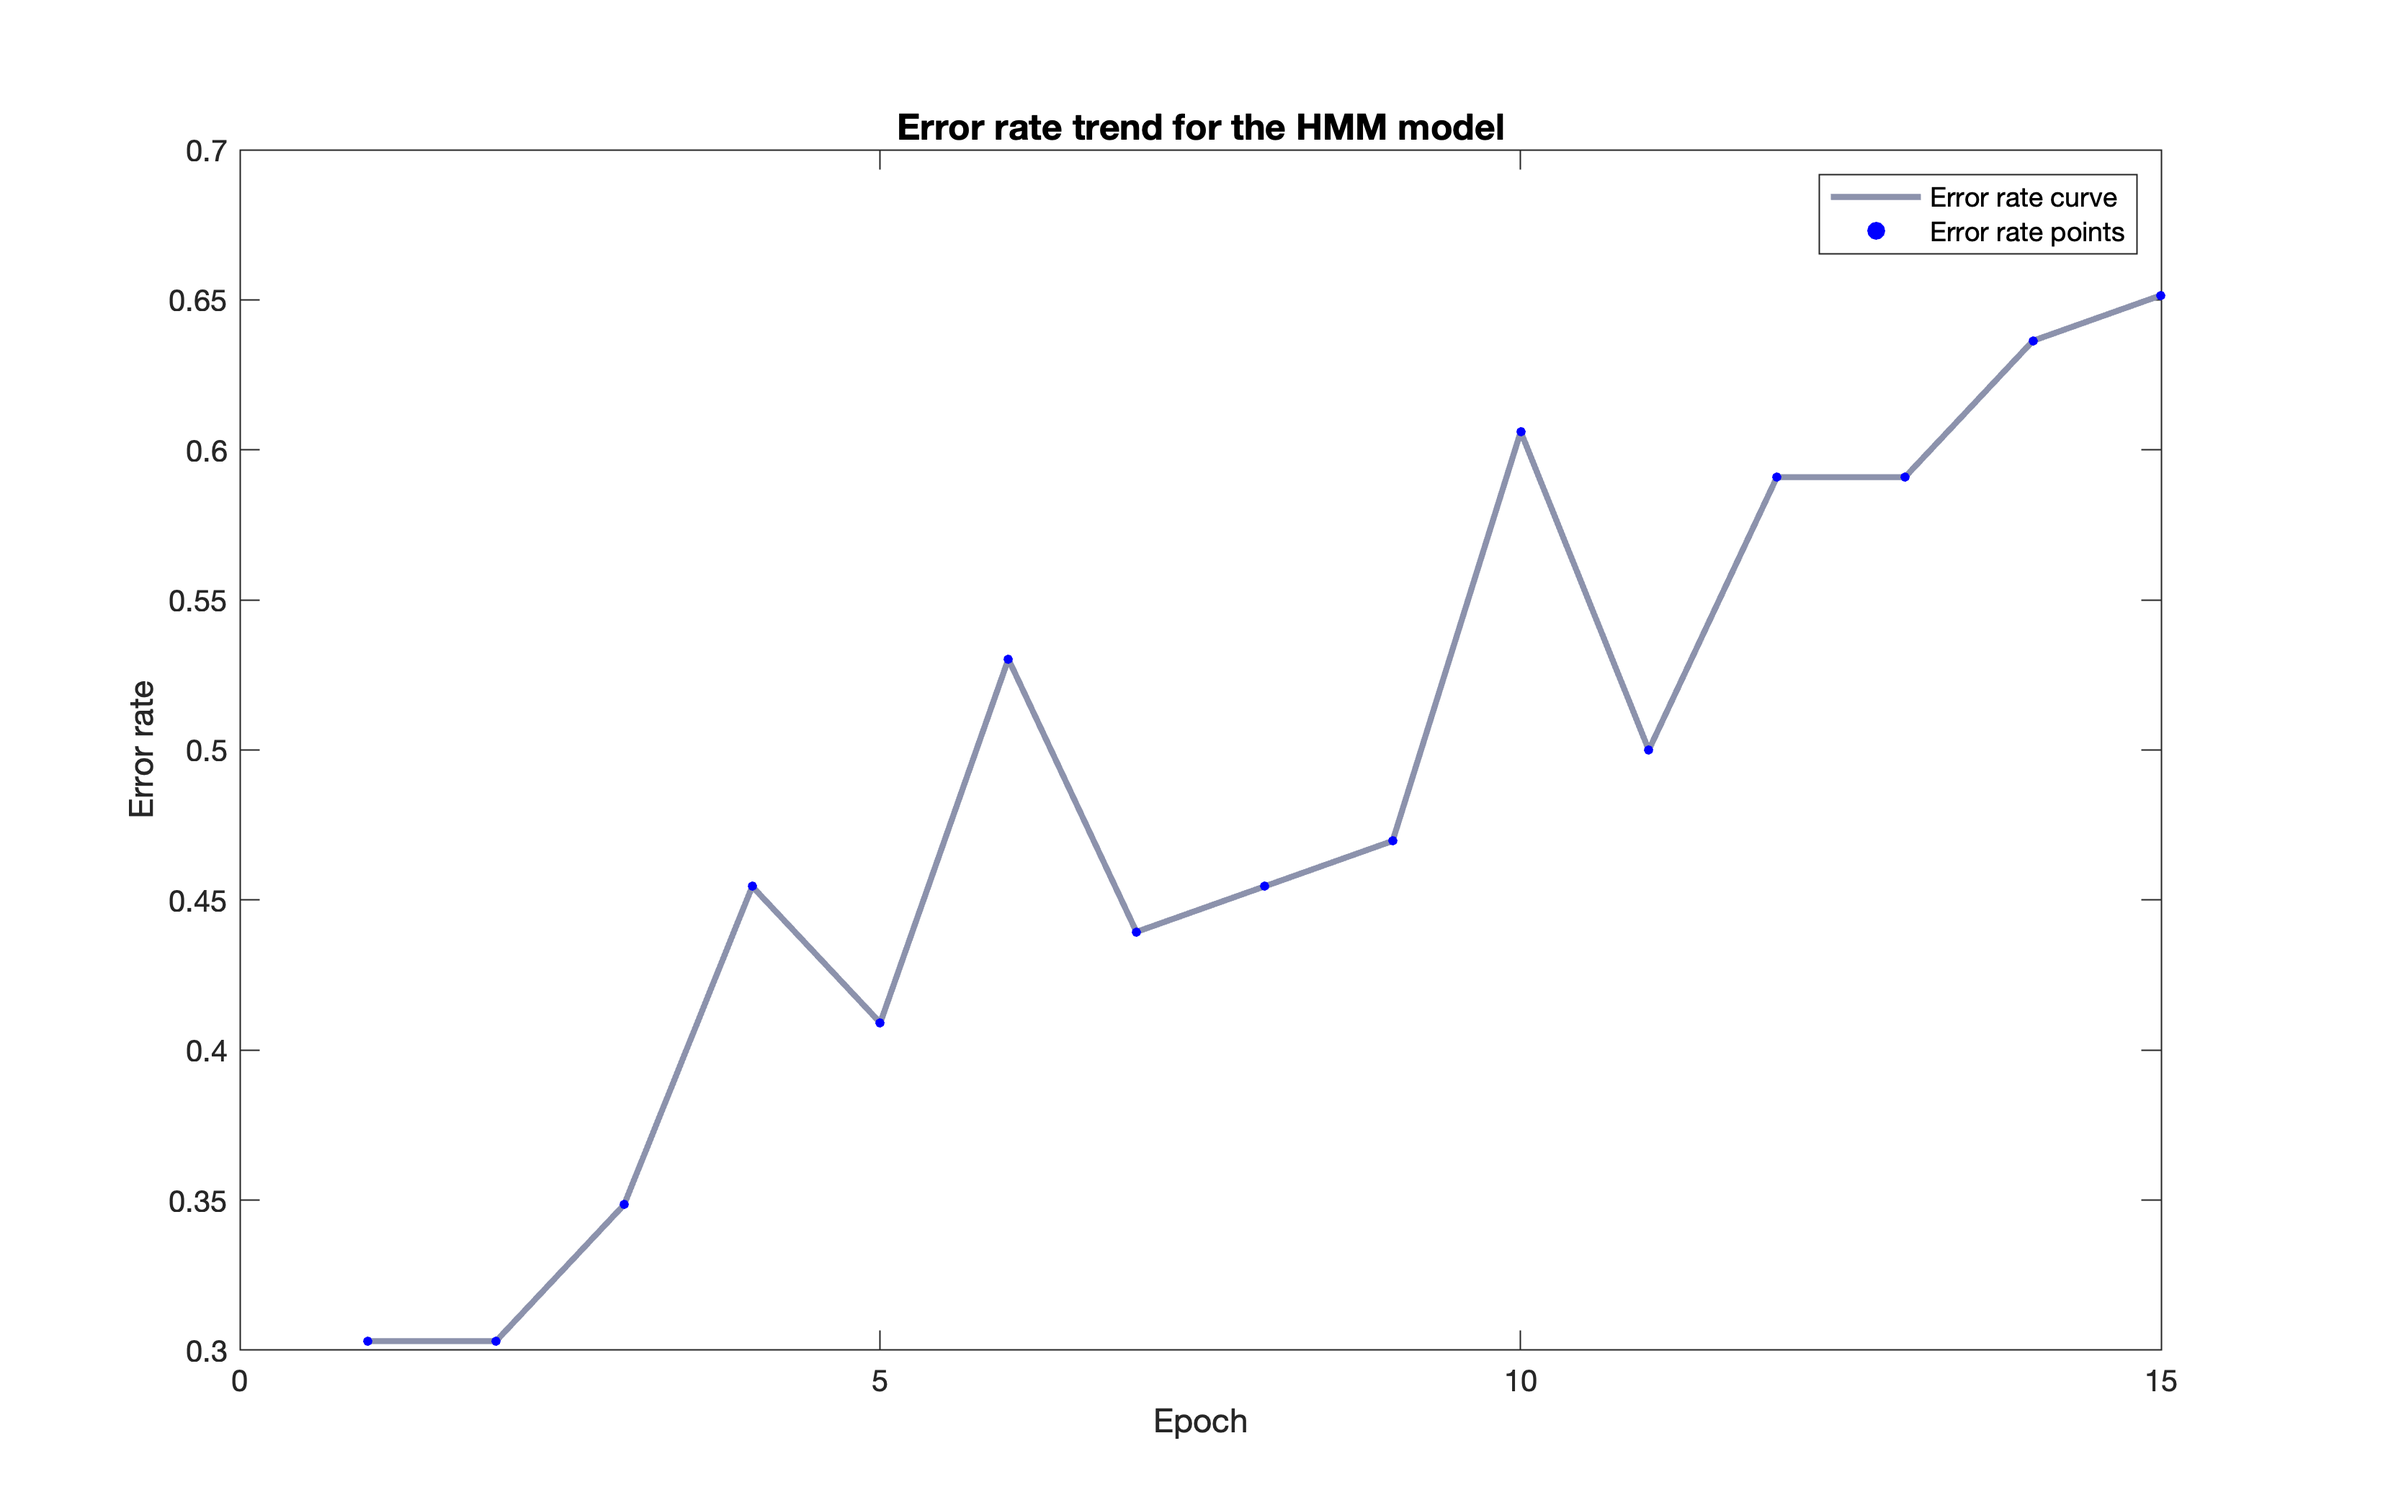
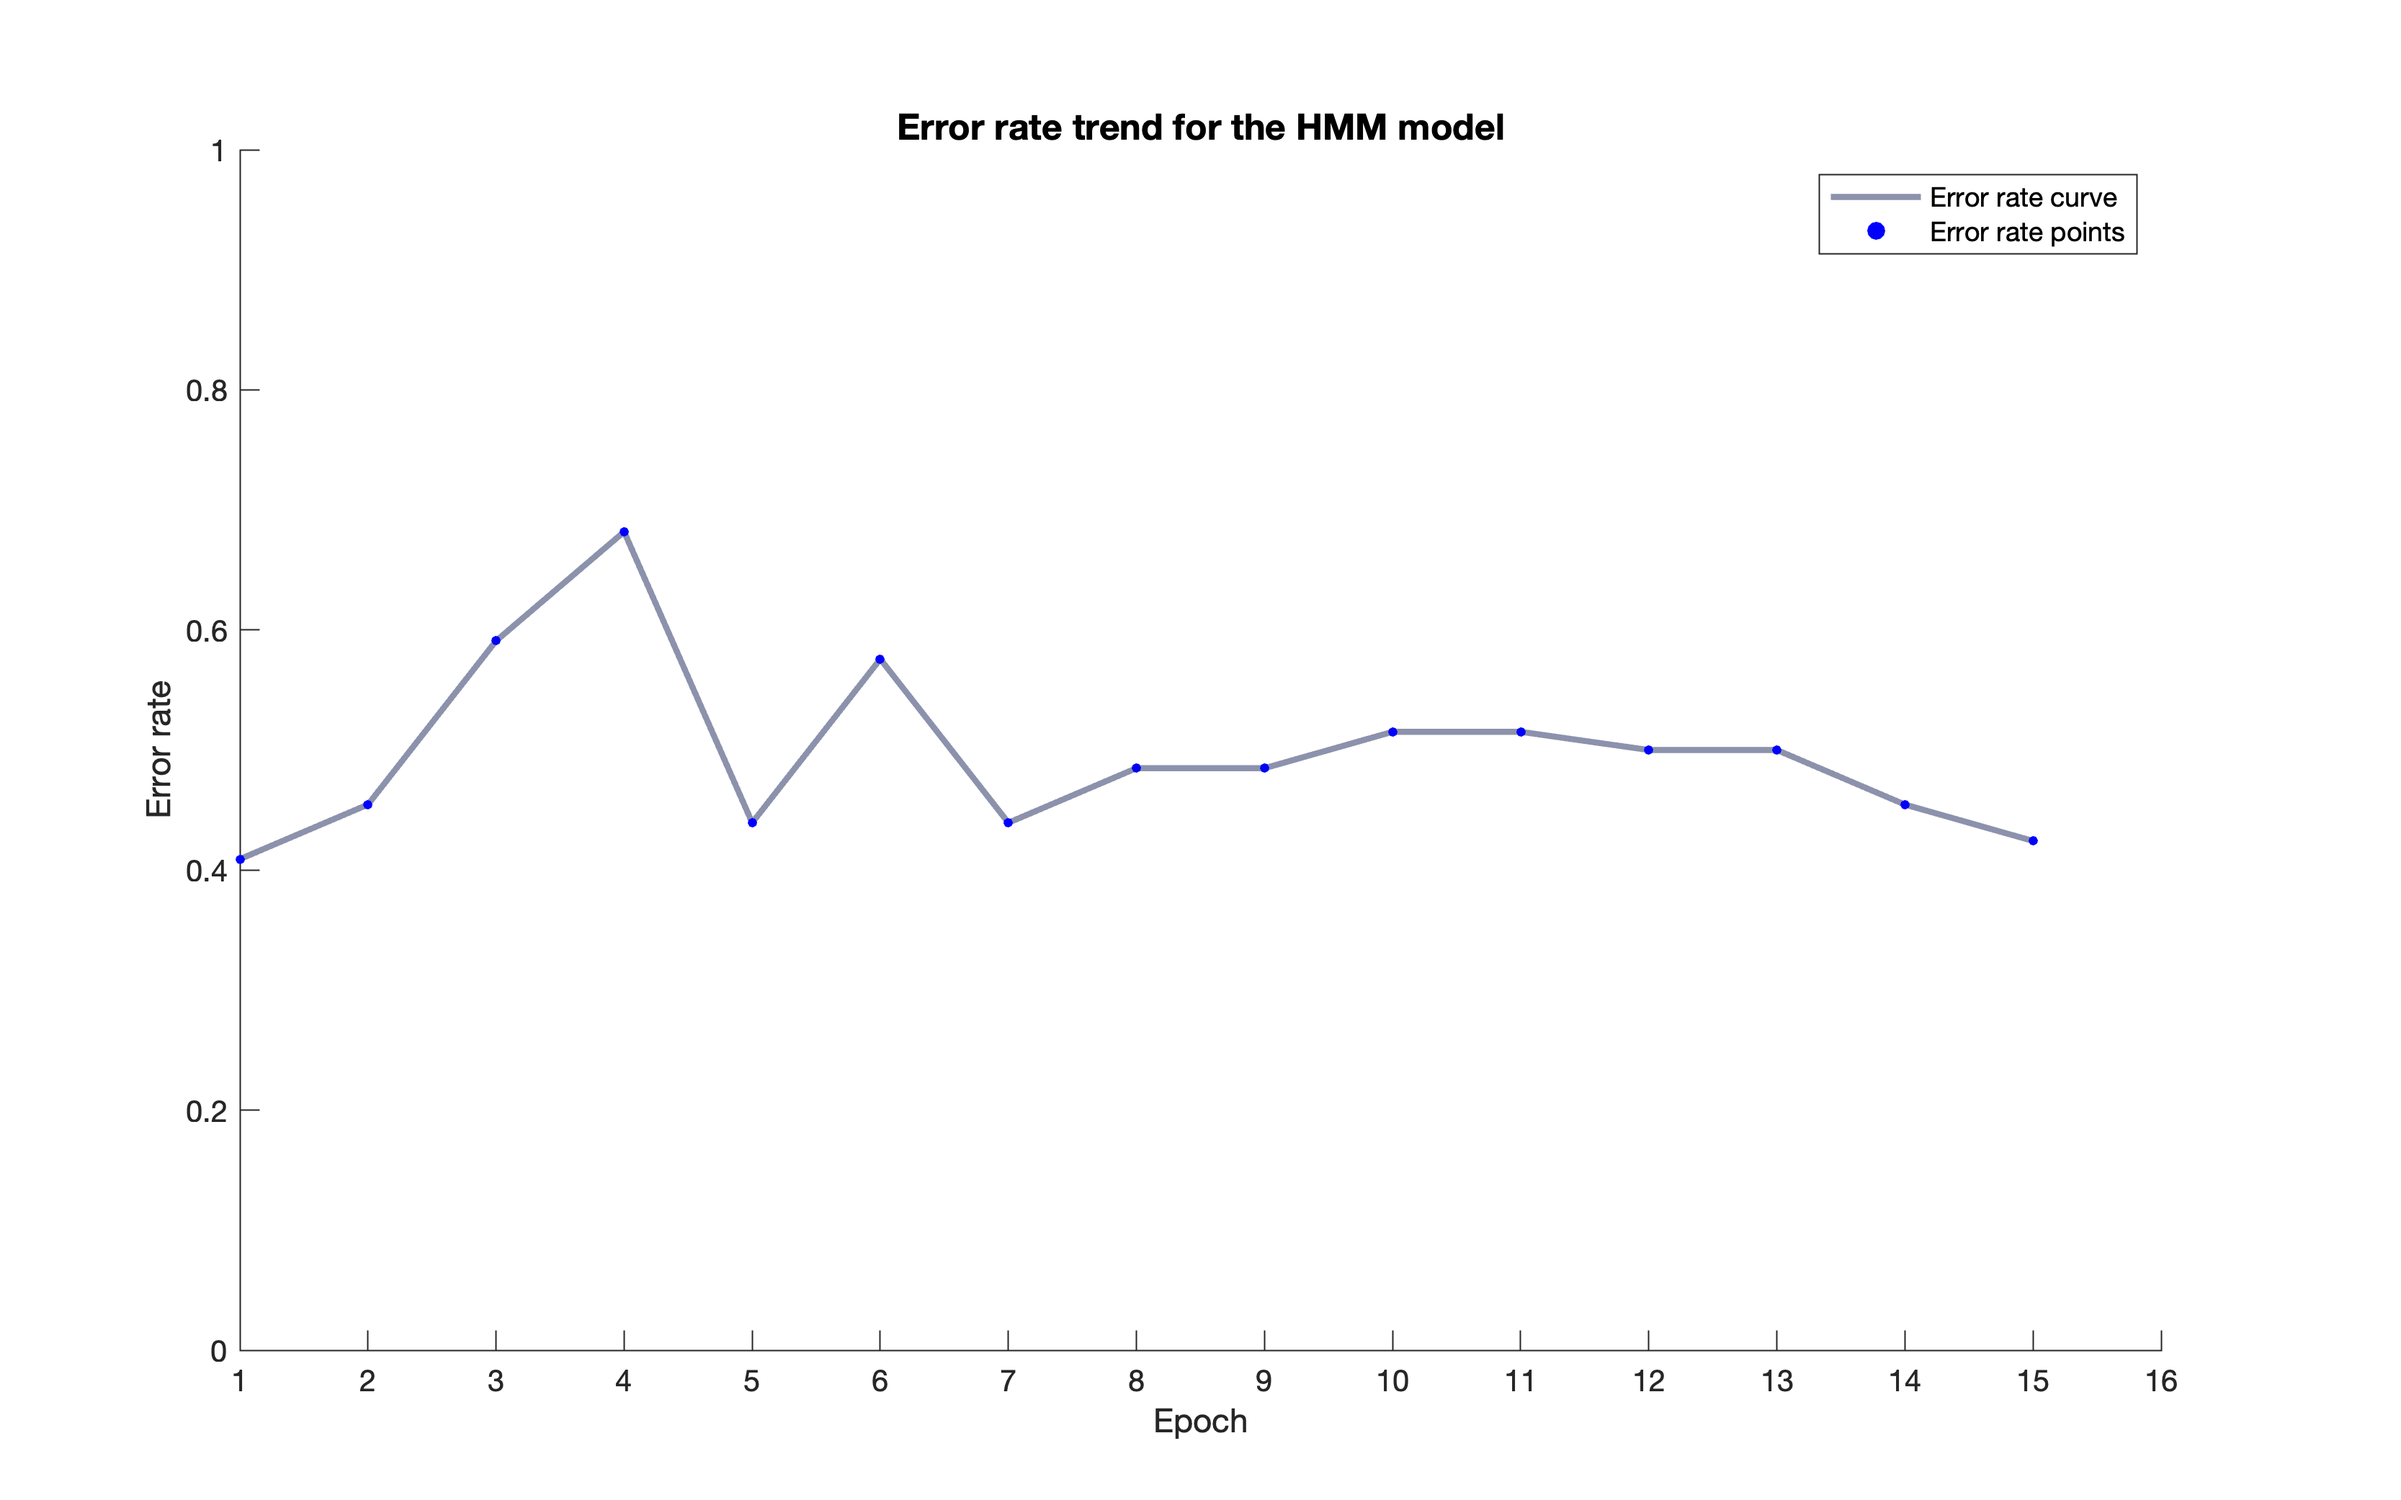
add the function for normalization

diff --git a/document/Report for Speech Recognition.tex b/document/Report for Speech Recognition.tex
@@ -83,18 +83,71 @@ This report is structured as follows: \textit{Section 2} analyses the kinematics
 \section{MFCC acoustic features}
 
 
-\subsection{Model initialization}
+\section{Model initialization}
 
 
+\subsection{Paremeters of HMM initialization}
+Model initialization is a foundational step in training Hidden Markov Models (HMMs). The success of training algorithms like the Baum-Welch algorithm relies heavily on well-initialized model parameters. These parameters include the initial state probabilities $\pi$, the state transition probabilities $A$, and the observation probabilities $B$. Proper initialization provides a good starting point for optimization and helps avoid convergence to suboptimal solutions. 
 
-\subsection{Model initialization}
-Model initialization is a foundational step in training Hidden Markov Models (HMMs). The success of training algorithms like the Baum-Welch algorithm relies heavily on well-initialized model parameters. These parameters include the initial state probabilities $Pi$, the state transition probabilities $A$, and the observation probabilities $B$. Proper initialization provides a good starting point for optimization and helps avoid convergence to suboptimal solutions. 
+
+\paragraph{Initial State Probabilities $\Pi$:}
+	 $\Pi = [\pi_1, \pi_2, \dots, \pi_N]$ represents the probability of starting in each state  i , where  N  is the number of states.
+Here, initial $\Pi$ is provided in the assigment document:
+\begin{equation}
+\label{eqn:pi}
+\pi_i = \begin{bmatrix}
+ 	1 & 0 & 0 & 0 & 0 & 0 & 0 & 0
+ \end{bmatrix}
+\end{equation}
+
+\paragraph{State Transition Probabilities $A$:}
+ $A = [a_{ij}]$  represents the probability of transitioning from state $i$ to state $j$, satisfying $\sum_{j=1}^N a_{ij} = 1$  for all $i$.
+Here, initial $A$ is provided in the assigment document:
+\begin{equation}
+\label{eqn:A}
+a_{ij} = \begin{bmatrix}
+ 	0.8 & 0.2 & 0 & 0 & 0 & 0 & 0 & 0 \\
+ 	0 & 0.8 & 0.2 & 0 & 0 & 0 & 0 & 0 \\
+ 	0 & 0 & 0.8 & 0.2 & 0 & 0 & 0 & 0 \\
+ 	0 & 0 & 0 & 0.8 & 0.2 & 0 & 0 & 0 \\
+ 	0 & 0 & 0 & 0 & 0.8 & 0.2 & 0 & 0 \\
+ 	0 & 0 & 0 & 0 & 0 & 0.8 & 0.2 & 0 \\
+ 	0 & 0 & 0 & 0 & 0 & 0 & 0.8 & 0.2 \\
+ 	0 & 0 & 0 & 0 & 0 & 0 & 0 & 0.8
+ \end{bmatrix}
+\end{equation}
+
+\paragraph{Observation Probabilities $B$:}
+ $B$ represents the probability of observing data given a state. For continuous observations, this is computed using a multivariate Gaussian probability density function $PDF$.
+ 
+ The observation probability for a given state $i$ and observation $x$ is defined as:
+\begin{equation}
+B_i(x) = \frac{1}{(2\pi)^{d/2} |\Sigma_i|^{1/2}} e^{-\frac{1}{2}(x - \mu_i)^T \Sigma_i^{-1} (x - \mu_i)}
+\end{equation}
+
+where:
+\begin{itemize}
+\item $\mu_i$ is the mean vector for state  i ,
+\item $\Sigma_i$ is the covariance matrix for state  i ,
+\item $d$ is the dimensionality of the observation vector.
+\end{itemize}
+
+In practice:
+\begin{itemize}
+\item $\mu_i$ can be initialized as the global mean of the observations.
+\item $\Sigma_i$ can be initialized as a diagonal matrix where diagonal entries are the variances of the clustered observations.
+\end{itemize}
 
 \subsection{Initializaton for Multivariate Gaussian pdf}
+In MMs with multivariate Gaussian probability density functions (PDFs), proper initialization of model parameters is critical for the success of the training process, particularly when using iterative algorithms like the Baum-Welch algorithm. Initialization provides the model with starting estimates for the emission probabilities, which are represented as Gaussian distributions, as well as the transition probabilities and initial state probabilities.
+
+The initialization of the multivariate Gaussian PDF involves estimating the mean vector $\mu$ and the covariance matrix $\Sigma$ for each state in the HMM. These parameters characterize the probability distribution of the observed data within each state.
 
 \subsubsection{Segments splitting for data}
+Divide the length of the trainning samples evenly into $N$ parts, where $N = 8$, representing the number of hidden states. This converts the training samples into an $8N\times13$matrix, facilitating the computation of the Multivariate Gaussian PDF.
 
 \subsubsection{Calculation for mean}
+
 
 \subsubsection{Calculation for variance}
 

diff --git a/model_initialization/normalizeMatrix.m b/model_initialization/normalizeMatrix.m
@@ -1,0 +1,47 @@
+function normalizedMatrix = normalizeMatrix(matrix, method)
+% NORMALIZEMATRIX Summary of this function goes here
+%
+% [OUTPUTARGS] = NORMALIZEMATRIX(INPUTARGS) Explain usage here
+%
+% Examples:
+%
+% Provide sample usage code here
+%
+% See also: List related files here
+
+% Author: Xiaoguang Liang, University of Surrey
+% Date: 2024/12/05 19:01:05
+% Revision: 0.1
+
+% Default method if none is provided
+if nargin < 2
+    method = 'minmax';
+end
+
+switch lower(method)
+    case 'minmax'
+        % Min-max normalization: scale values to [0, 1]
+        minVal = min(matrix(:));
+        maxVal = max(matrix(:));
+        if maxVal == minVal
+            warning('Matrix has no variation. Returning zero matrix.');
+            normalizedMatrix = zeros(size(matrix));
+        else
+            normalizedMatrix = (matrix - minVal) / (maxVal - minVal);
+        end
+
+    case 'zscore'
+        % Z-score normalization: mean = 0, standard deviation = 1
+        meanVal = mean(matrix(:));
+        stdVal = std(matrix(:));
+        if stdVal == 0
+            warning('Matrix has no variation. Returning zero matrix.');
+            normalizedMatrix = zeros(size(matrix));
+        else
+            normalizedMatrix = (matrix - meanVal) / stdVal;
+        end
+
+    otherwise
+        error('Unsupported normalization method. Use ''minmax'' or ''zscore''.');
+end
+end

diff --git a/model_initialization/regularizeCovariance.m b/model_initialization/regularizeCovariance.m
@@ -1,0 +1,30 @@
+function regularizedCov = regularizeCovariance(covMatrix, epsilon)
+% REGULARIZECOVARIANCE Summary of this function goes here
+%
+% [OUTPUTARGS] = REGULARIZECOVARIANCE(INPUTARGS) Explain usage here
+%
+% Examples:
+%
+% Provide sample usage code here
+%
+% See also: List related files here
+
+% Author: Xiaoguang Liang, University of Surrey
+% Date: 2024/12/05 19:02:12
+% Revision: 0.1
+
+% Validate inputs
+if ~ismatrix(covMatrix) || size(covMatrix, 1) ~= size(covMatrix, 2)
+    error('Input must be a square covariance matrix.');
+end
+
+if epsilon <= 0
+    error('Regularization term epsilon must be a positive scalar.');
+end
+
+% Add epsilon to the diagonal elements
+regularizedCov = covMatrix + epsilon * eye(size(covMatrix));
+
+% Ensure symmetry (numerical stability)
+regularizedCov = (regularizedCov + regularizedCov') / 2;
+end

diff --git a/model_initialization/meanVariance.m b/model_initialization/meanVariance.m
@@ -41,4 +41,13 @@ i = D;
 meanData(:, i) = mean(mfccCoeff(:, k * (i - 1) + 1:end), 2);
 varianceData(:, i) = var(mfccCoeff(:, k * (i - 1) + 1:end), 0, 2);
 
+% Normalize the mean and variance
+meanData = normalizeMatrix(meanData);
+varianceData = normalizeMatrix(varianceData);
+
+% Regulate the variance
+% Regularization parameter
+epsilon = 1e-8;
+varianceData = regularizeCovariance(varianceData, epsilon);
+
 end

diff --git a/HMM_model/compute_pdf_gm.m b/HMM_model/compute_pdf_gm.m
@@ -41,6 +41,6 @@ p = norm_factor * exp(exponent);
 p = max(p, realmin); % Ensure p is not smaller than MATLAB's smallest positive float
 
 % Avoid getting NaN
-if isnan(p), p=0; end
+if isnan(p), p=GlobalSetting.REPLACE_NAN; end
 
 end

diff --git a/HMM_model/plot_errors.m b/HMM_model/plot_errors.m
@@ -54,7 +54,7 @@ Ymax=1;
 axis([Xmin,Xmax,Ymin,Ymax]);
 
 % Set axis label 
-set(gca,'XTick',(0.2:0.2:Xmax));
+set(gca,'XTick',(Xmin:1:Xmax));
 set(gca,'YTick',(Ymin:0.2:Ymax));
 set(gca,'LooseInset',get(gca,'TightInset'));
 box off;
